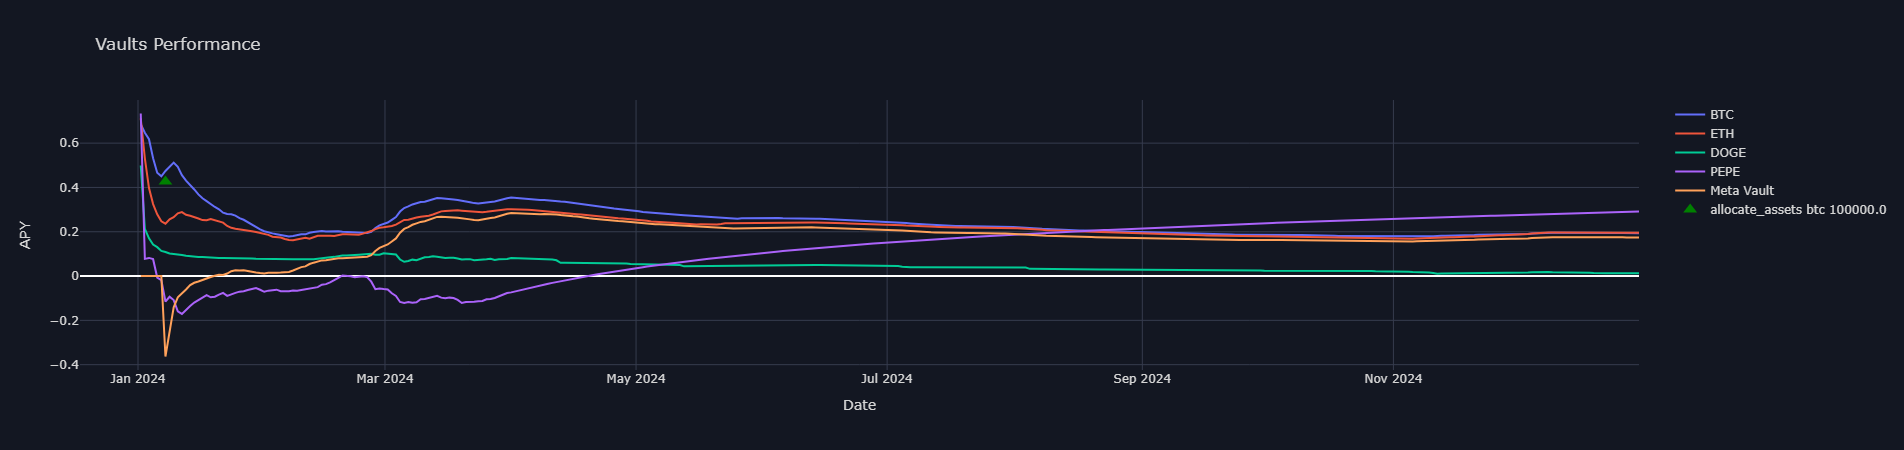
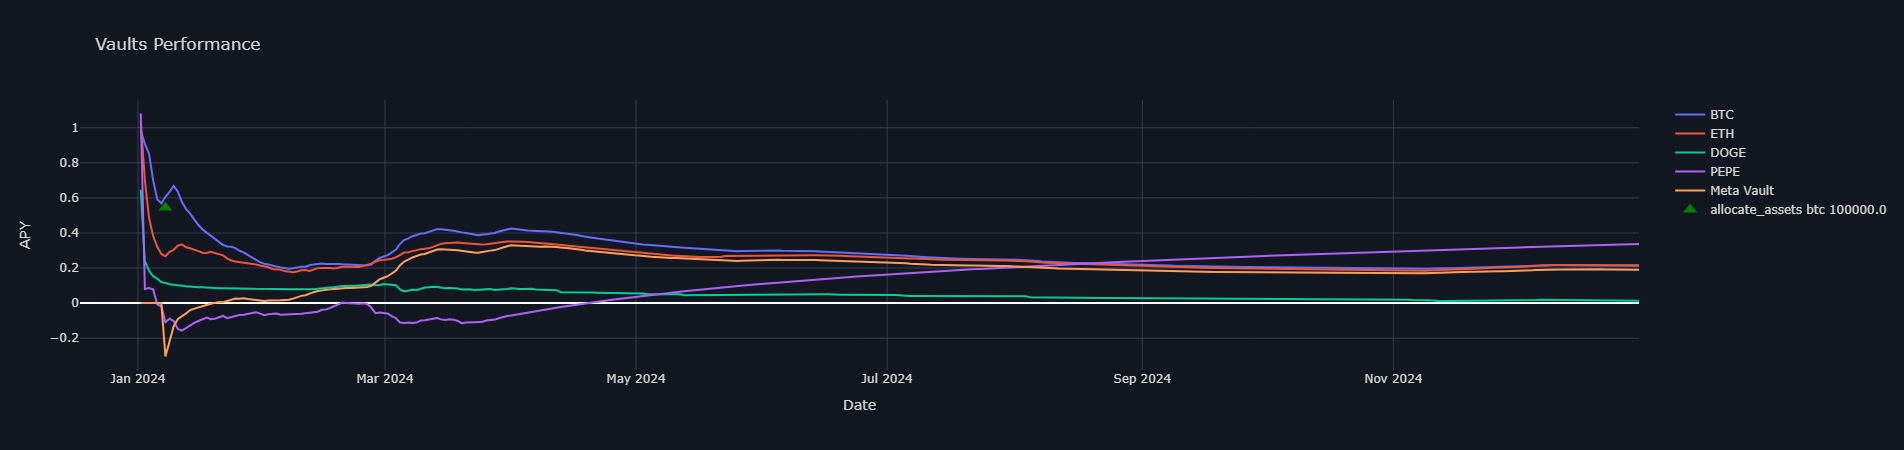
fix: correct apy calc

Changed region(s): [[0.031, 0.28, 0.8676, 0.7778], [0.031, 0.8089, 0.062, 0.84]]

diff --git a/back_test/dashboard.py b/back_test/dashboard.py
@@ -36,12 +36,19 @@ def load_vaults_performance(result_file_path: str) -> pd.DataFrame:
     # Calculate days since start for each row
     df['days_since_start'] = (df['date'] - df['date'].iloc[0]).dt.total_seconds() / (24 * 60 * 60)
     
+    # Calculate APR for each point in time
+    df['meta_vault_apr'] = (df['meta_vault_share_price'] - 1) * (365 / df['days_since_start'])
+    df['eth_vault_apr'] = (df['eth_share_price'] - 1) * (365 / df['days_since_start'])
+    df['btc_vault_apr'] = (df['btc_share_price'] - 1) * (365 / df['days_since_start'])
+    df['doge_vault_apr'] = (df['doge_share_price'] - 1) * (365 / df['days_since_start'])
+    df['pepe_vault_apr'] = (df['pepe_share_price'] - 1) * (365 / df['days_since_start'])
+
     # Calculate APY for each point in time
-    df['meta_vault_apy'] = (df['meta_vault_share_price'] - 1) * (365 / df['days_since_start'])
-    df['eth_vault_apy'] = (df['eth_share_price'] - 1) * (365 / df['days_since_start'])
-    df['btc_vault_apy'] = (df['btc_share_price'] - 1) * (365 / df['days_since_start'])
-    df['doge_vault_apy'] = (df['doge_share_price'] - 1) * (365 / df['days_since_start'])
-    df['pepe_vault_apy'] = (df['pepe_share_price'] - 1) * (365 / df['days_since_start'])
+    df['meta_vault_apy'] = (1 + df['meta_vault_apr'] / 365) ** 365 - 1
+    df['eth_vault_apy'] = (1 + df['eth_vault_apr'] / 365) ** 365 - 1
+    df['btc_vault_apy'] = (1 + df['btc_vault_apr'] / 365) ** 365 - 1
+    df['doge_vault_apy'] = (1 + df['doge_vault_apr'] / 365) ** 365 - 1
+    df['pepe_vault_apy'] = (1 + df['pepe_vault_apr'] / 365) ** 365 - 1
     
     return df
 
